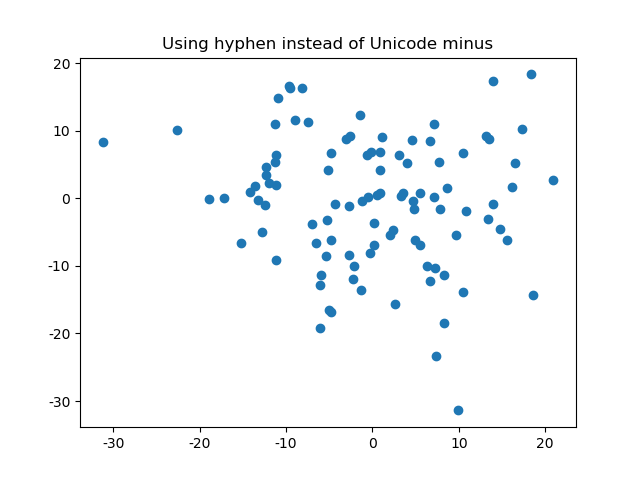
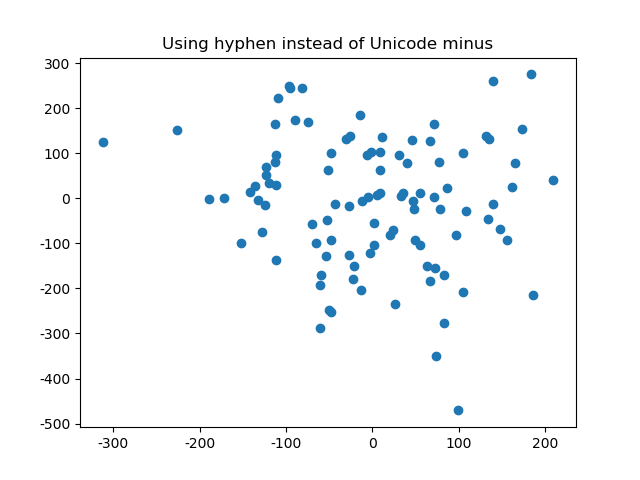
homeworkp9_4

diff --git a/pythontest/p9_3.py b/pythontest/p9_3.py
@@ -8,6 +8,6 @@ np.random.seed(19680801)
 
 matplotlib.rcParams['axes.unicode_minus'] = False
 fig, ax = plt.subplots()
-ax.plot(10*np.random.randn(100), 10*np.random.randn(100), 'o')
+ax.plot(100*np.random.randn(100), 150*np.random.randn(100), 'o')
 ax.set_title('Using hyphen instead of Unicode minus')
 plt.show()
